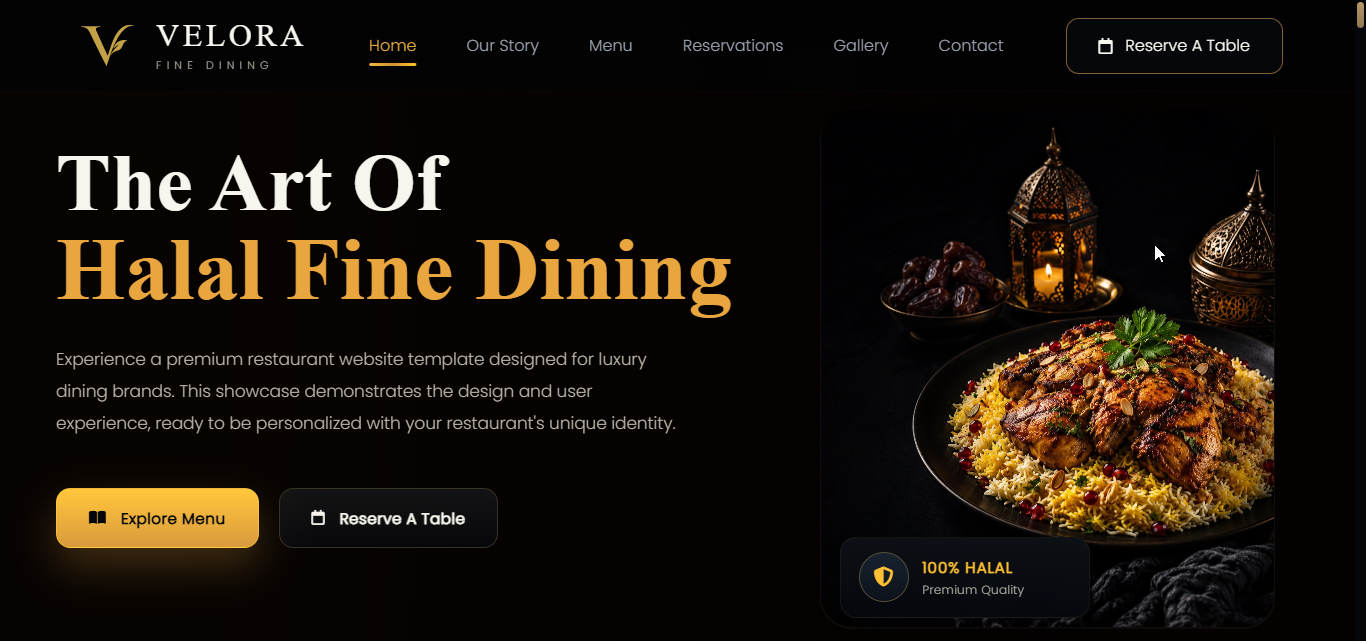
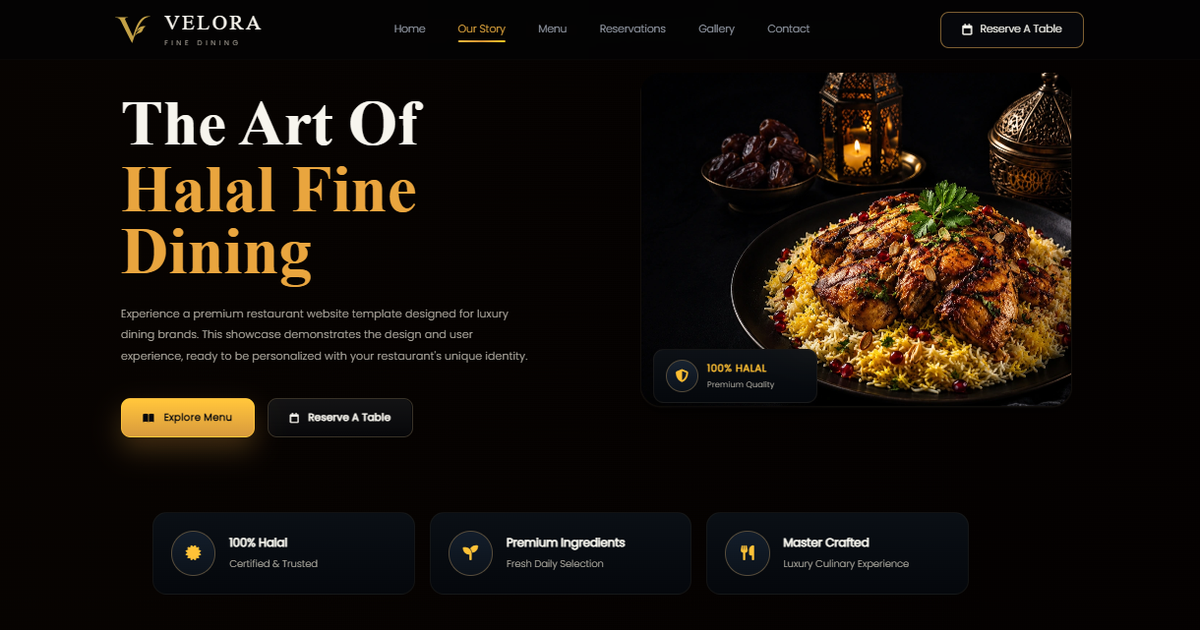
fix(navbar): center navbar content on wide screens + update preview.png

diff --git a/index.html b/index.html
@@ -40,38 +40,37 @@
   <section class="home" id="home">
 
     <nav class="navbar">
+      <div class="navbar-inner">
 
-      <div href="" class="brand">
-        <img src="/assets/brands/velora-nav.svg
-        " alt="Velora Logo">
-        <div class="brand-text">
-          <span class="brand-name">VELORA</span>
-          <span class="brand-subtitle">FINE DINING</span>
+        <div href="" class="brand">
+          <img src="/assets/brands/velora-nav.svg" alt="Velora Logo">
+          <div class="brand-text">
+            <span class="brand-name">VELORA</span>
+            <span class="brand-subtitle">FINE DINING</span>
+          </div>
         </div>
+
+        <ul class="nav-links">
+          <li><a class="active" href="#home">Home</a></li>
+          <li><a href="#story">Our Story</a></li>
+          <li><a href="#menu">Menu</a></li>
+          <li><a href="#reservation">Reservations</a></li>
+          <li><a href="#gallery">Gallery</a></li>
+          <li><a href="#contact">Contact</a></li>
+        </ul>
+
+        <div class="nav-actions">
+          <a href="#reservation" class="reservation-btn">
+            <i class="fa-regular fa-calendar"></i>
+            <span>Reserve A Table</span>
+          </a>
+        </div>
+
+        <button class="menu-btn" aria-label="Open Menu">
+          <i class="fa-solid fa-bars"></i>
+        </button>
+
       </div>
-
-      <ul class="nav-links">
-        <li><a class="active" href="#home">Home</a></li>
-        <li><a href="#story">Our Story</a></li>
-        <li><a href="#menu">Menu</a></li>
-        <li><a href="#reservation">Reservations</a></li>
-        <li><a href="#gallery">Gallery</a></li>
-        <li><a href="#contact">Contact</a></li>
-      </ul>
-
-      <div class="nav-actions">
-
-        <a href="#reservation" class="reservation-btn">
-          <i class="fa-regular fa-calendar"></i>
-          <span>Reserve A Table</span>
-        </a>
-
-      </div>
-
-      <button class="menu-btn" aria-label="Open Menu">
-        <i class="fa-solid fa-bars"></i>
-      </button>
-
     </nav>
 
     <div class="mobile-menu">

diff --git a/main.css b/main.css
@@ -313,21 +313,13 @@ img {
   position: fixed;
   top: 0;
   left: 0;
-  width: 100%;
   z-index: 1000;
 
   width: 100%;
   height: 92px;
 
-  display: flex;
-  align-items: center;
-  justify-content: space-between;
-
-  padding-inline: 4.5rem;
-
   background: oklch(.10 .012 255 / .55);
   backdrop-filter: blur(12px);
-
   border-bottom: 1px solid oklch(.30 .02 80 / .10);
 
   transition:
@@ -335,6 +327,18 @@ img {
     backdrop-filter .35s,
     border-color .35s,
     box-shadow .35s;
+}
+
+.navbar-inner {
+  max-width: 1630px; 
+  height: 100%;
+  margin-inline: auto;
+
+  display: flex;
+  align-items: center;
+  justify-content: space-between;
+
+  padding-inline: 4.5rem;
 }
 
 .navbar.scrolled {
@@ -1115,6 +1119,8 @@ li a:hover {
   grid-template-columns: repeat(3, minmax(400px, 1fr));
   gap: 1.4rem;
   padding-top: 50px;
+  width: min(1400px, calc(100% - 6rem));
+  margin-inline: auto;
 }
 
 .feature-card {
@@ -2248,7 +2254,8 @@ li a:hover {
   grid-template-columns: .9fr 1.1fr;
   gap: 5rem;
   align-items: center;
-  padding: 3rem;
+  width: min(1400px, calc(100% - 6rem));
+  margin-inline: auto;
 }
 
 .ourstory .journey-left h3 {
@@ -2525,7 +2532,9 @@ li a:hover {
   grid-template-columns: repeat(5, 1fr);
   gap: 1.6rem;
   padding: 3rem;
-}
+  width: min(1400px, calc(100% - 6rem));
+  margin-inline: auto;
+  }
 
 .ourstory .story-stat {
   position: relative;
@@ -3505,6 +3514,8 @@ li a:hover {
 .menu .menu-bottom {
   margin-top: 5rem;
   padding: 3.5rem;
+  width: min(1400px, calc(100% - 6rem));
+  margin-inline: auto;
 }
 
 .menu .menu-banner {

diff --git a/main.js b/main.js
@@ -1,5 +1,3 @@
-
-
 // --- nav scrolled ---
 
 const navbar = document.querySelector(".navbar");
